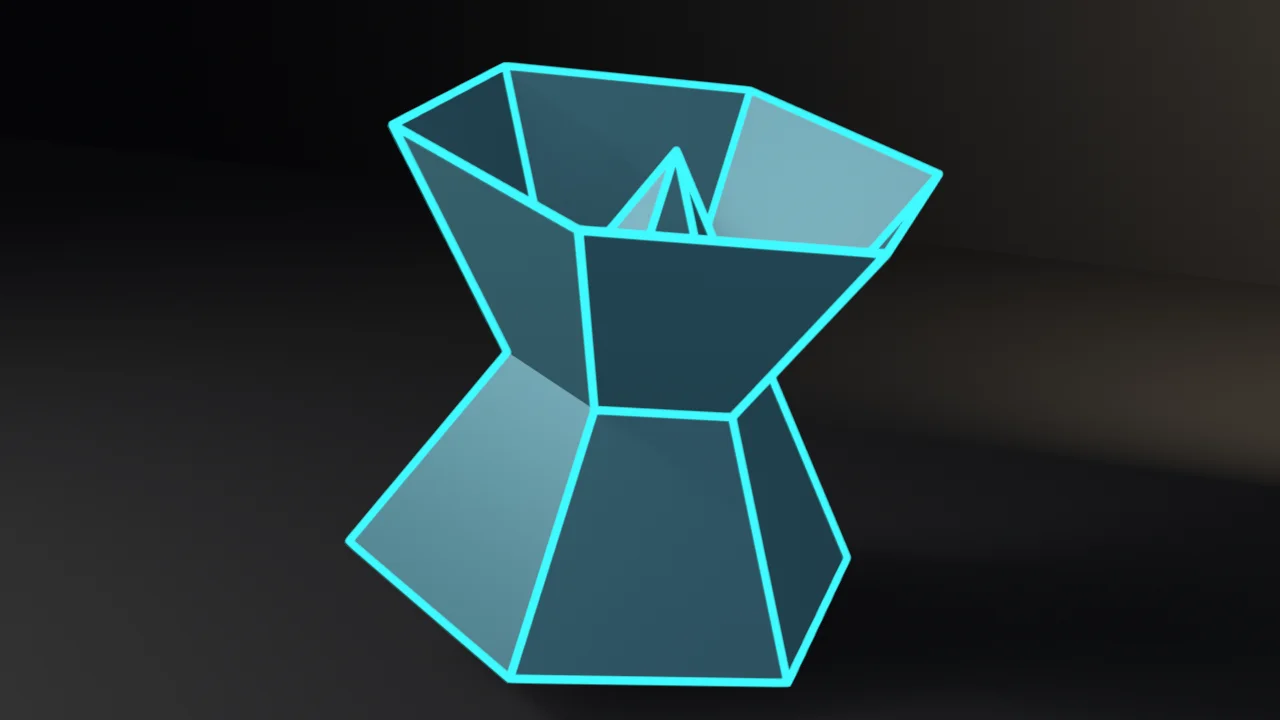
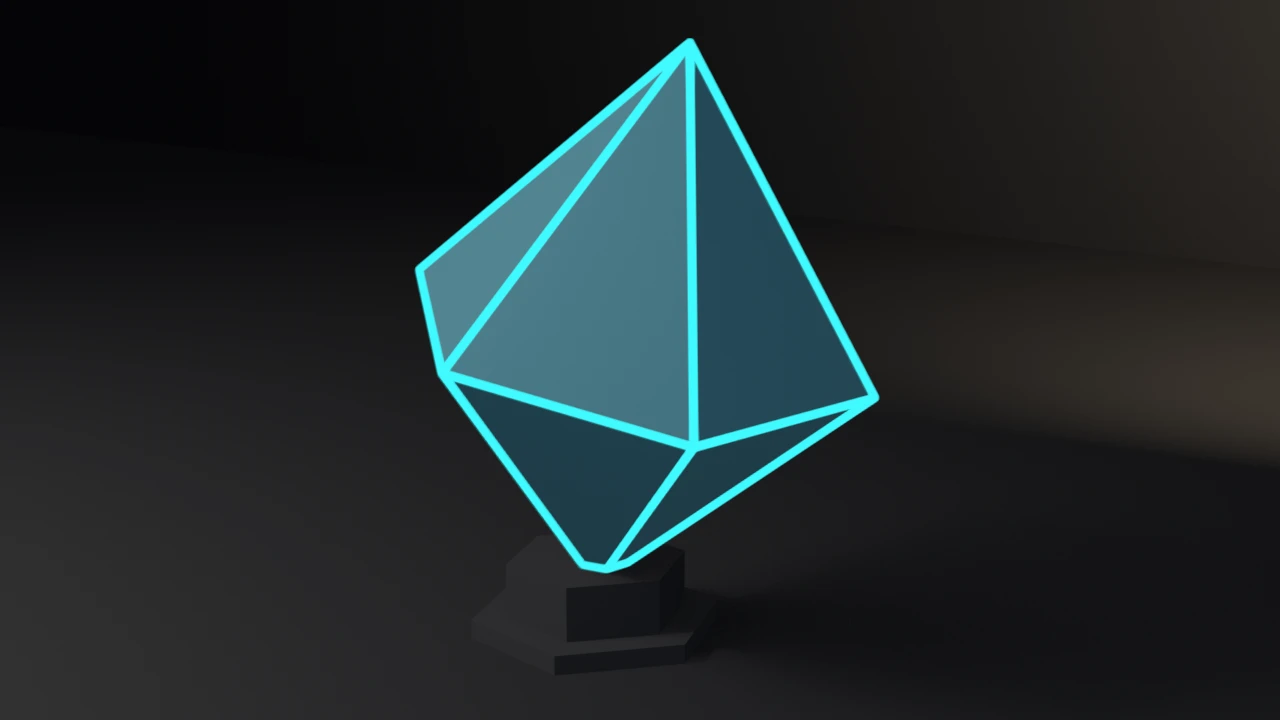
fix(examples): build gp-lineart-contour's crystal as a bipyramid, and mount it
build_crystal duplicated an open cone and flipped it over the original. The
two crossed into an hourglass with open hexagonal ends and an inner spike,
which the old gallery alt described as an hourglass-shaped solid. It is now
the hexagonal bipyramid the docstring intended. The crystal also hovered
0.13 m above the floor; a two-tier hex mount, built after the check from the
lowest evaluated vertex, now holds its lower tip. The still dollies along the
check camera's bearing so the mount stays in frame.

The corrected mesh changes the measured Line Art counts from 10 strokes /
34 points to 2 / 12, identical on 4.5.11, 5.1.2 and 5.2.1. The gates are
lower bounds (>=1, >=4) and are unchanged, as are every assertion and exit
code (default 0, --no-contour 4, --output 0).

Shared gallery.json and gallery index updates for all three examples ride here.

Changed region(s): [[0.25, 0.0611, 0.75, 0.9778]]

diff --git a/docs/gallery/gp-lineart-contour/index.html b/docs/gallery/gp-lineart-contour/index.html
@@ -4,25 +4,25 @@
   <meta charset="utf-8" />
   <meta name="viewport" content="width=device-width, initial-scale=1" />
   <title>gp-lineart-contour — Examples — Blender Developer Tools</title>
-  <meta name="description" content="Grease Pencil LINEART modifier contours via the depsgraph on a faceted crystal. source_object is load-bearing (clear yields 0 strokes); contour+crease off yields 0; restore recovers 10 strokes / 34 points on both 4.5.11 and 5.1.2. Stroke width: thickness exists on 4.5, AttributeError on 5.1 — portable path is radius." />
+  <meta name="description" content="Grease Pencil LINEART modifier contours via the depsgraph on a faceted crystal. source_object is load-bearing (clear yields 0 strokes); contour+crease off yields 0; restore recovers 2 strokes / 12 points on 4.5.11, 5.1.2 and 5.2.1. Stroke width: thickness exists on 4.5, AttributeError on 5.1 — portable path is radius." />
   <link rel="canonical" href="https://tmhsdigital.github.io/Blender-Developer-Tools/gallery/gp-lineart-contour/" />
   <link rel="icon" href="../../assets/favicon.svg" type="image/svg+xml" />
   <meta name="theme-color" content="#1a1b1e" />
   <meta name="color-scheme" content="dark" />
   <meta property="og:type" content="website" />
   <meta property="og:title" content="gp-lineart-contour — Examples — Blender Developer Tools" />
-  <meta property="og:description" content="Grease Pencil LINEART modifier contours via the depsgraph on a faceted crystal. source_object is load-bearing (clear yields 0 strokes); contour+crease off yields 0; restore recovers 10 strokes / 34 points on both 4.5.11 and 5.1.2. Stroke width: thickness exists on 4.5, AttributeError on 5.1 — portable path is radius." />
+  <meta property="og:description" content="Grease Pencil LINEART modifier contours via the depsgraph on a faceted crystal. source_object is load-bearing (clear yields 0 strokes); contour+crease off yields 0; restore recovers 2 strokes / 12 points on 4.5.11, 5.1.2 and 5.2.1. Stroke width: thickness exists on 4.5, AttributeError on 5.1 — portable path is radius." />
   <meta property="og:url" content="https://tmhsdigital.github.io/Blender-Developer-Tools/gallery/gp-lineart-contour/" />
   <meta property="og:image" content="https://tmhsdigital.github.io/Blender-Developer-Tools/gallery/assets/gp-lineart-contour-hero.webp" />
   <meta property="og:image:width" content="1280" />
   <meta property="og:image:height" content="720" />
-  <meta property="og:image:alt" content="A translucent hourglass-shaped solid outlined by cyan Line Art contour strokes." />
+  <meta property="og:image:alt" content="A translucent teal crystal, a six-sided double pyramid set tip-down in a dark hex mount, its edges traced by cyan Line Art contour strokes." />
   <meta property="og:site_name" content="Blender Developer Tools" />
   <meta name="twitter:card" content="summary_large_image" />
   <meta name="twitter:title" content="gp-lineart-contour — Examples — Blender Developer Tools" />
-  <meta name="twitter:description" content="Grease Pencil LINEART modifier contours via the depsgraph on a faceted crystal. source_object is load-bearing (clear yields 0 strokes); contour+crease off yields 0; restore recovers 10 strokes / 34 points on both 4.5.11 and 5.1.2. Stroke width: thickness exists on 4.5, AttributeError on 5.1 — portable path is radius." />
+  <meta name="twitter:description" content="Grease Pencil LINEART modifier contours via the depsgraph on a faceted crystal. source_object is load-bearing (clear yields 0 strokes); contour+crease off yields 0; restore recovers 2 strokes / 12 points on 4.5.11, 5.1.2 and 5.2.1. Stroke width: thickness exists on 4.5, AttributeError on 5.1 — portable path is radius." />
   <meta name="twitter:image" content="https://tmhsdigital.github.io/Blender-Developer-Tools/gallery/assets/gp-lineart-contour-hero.webp" />
-  <meta name="twitter:image:alt" content="A translucent hourglass-shaped solid outlined by cyan Line Art contour strokes." />
+  <meta name="twitter:image:alt" content="A translucent teal crystal, a six-sided double pyramid set tip-down in a dark hex mount, its edges traced by cyan Line Art contour strokes." />
   <style>
     /* fonts are deployed by the landing build (docs/fonts/) */
     @font-face { font-family: 'Barlow Condensed'; font-weight: 600; font-display: swap;
@@ -265,11 +265,11 @@
   </div>
   <header class="hero">
     <h1>gp-lineart-contour</h1>
-    <p>Grease Pencil LINEART modifier contours via the depsgraph on a faceted crystal. source_object is load-bearing (clear yields 0 strokes); contour+crease off yields 0; restore recovers 10 strokes / 34 points on both 4.5.11 and 5.1.2. Stroke width: thickness exists on 4.5, AttributeError on 5.1 — portable path is radius.</p>
+    <p>Grease Pencil LINEART modifier contours via the depsgraph on a faceted crystal. source_object is load-bearing (clear yields 0 strokes); contour+crease off yields 0; restore recovers 2 strokes / 12 points on 4.5.11, 5.1.2 and 5.2.1. Stroke width: thickness exists on 4.5, AttributeError on 5.1 — portable path is radius.</p>
   </header>
   <main id="main">
-    <button class="detail-hero" id="heroZoom" type="button" aria-label="View full size: A translucent hourglass-shaped solid outlined by cyan Line Art contour strokes.">
-      <img src="../assets/gp-lineart-contour-hero.webp" alt="A translucent hourglass-shaped solid outlined by cyan Line Art contour strokes." width="1280" height="720" />
+    <button class="detail-hero" id="heroZoom" type="button" aria-label="View full size: A translucent teal crystal, a six-sided double pyramid set tip-down in a dark hex mount, its edges traced by cyan Line Art contour strokes.">
+      <img src="../assets/gp-lineart-contour-hero.webp" alt="A translucent teal crystal, a six-sided double pyramid set tip-down in a dark hex mount, its edges traced by cyan Line Art contour strokes." width="1280" height="720" />
     </button>
     <p class="zoom-hint">Rendered headless by the example itself — click to zoom.</p>
     <div class="callout"><span class="tag">witnesses</span> AI code still sets LINEART.thickness on 5.1 (AttributeError) or hand-draws strokes / enables Freestyle instead of modifiers.new(..., &#x27;LINEART&#x27;). Clearing source_object or leaving contour+crease off silently yields an empty drawing — the check proves both failure modes and recovery.</div>
@@ -280,9 +280,10 @@
     <section class="detail-section md">
 <p>A runnable example that builds a faceted crystal, attaches a Grease Pencil <code>LINEART</code> modifier with <code>source_type=&#x27;OBJECT&#x27;</code>, and proves the contour contract through the depsgraph — including the 4.5 → 5.1 stroke-width trap.</p>
 <p><strong>What it witnesses:</strong> the Line Art modifier contract AI-generated NPR code most often gets wrong.</p>
-<ul><li><strong>Contours are a modifier, not Freestyle and not hand-authored strokes.</strong> <code>modifiers.new(..., &#x27;LINEART&#x27;)</code> on a GPv3 object, with <code>target_layer</code> / <code>target_material</code> set, evaluates silhouette edges into drawing strokes.</li><li><strong><code>source_object</code> is load-bearing.</strong> Clearing it yields <strong>0</strong> evaluated strokes (proven in the same check pass). Restoring it recovers the contour.</li><li><strong>Edge-type flags matter.</strong> A freshly added LINEART with <code>use_contour</code> and <code>use_crease</code> both off emits <strong>0</strong> strokes; turning contour (+ crease) back on recovers the silhouette (<strong>10</strong> strokes / <strong>34</strong> points on both binaries for this crystal + camera).</li><li><strong>Stroke width renamed.</strong> 4.5 exposes both <code>thickness</code> (legacy px, set to 45 here) and <code>radius</code>; 5.1 removes <code>thickness</code> (<code>AttributeError</code>) and keeps <code>radius</code> only (portable path: <code>mod.radius = 0.028</code>).</li><li><strong>GPv3 address</strong> matches <code>grease-pencil-rosette</code>: <code>grease_pencils_v3</code> on 4.5, <code>grease_pencils</code> on 5.x.</li></ul>
+<ul><li><strong>Contours are a modifier, not Freestyle and not hand-authored strokes.</strong> <code>modifiers.new(..., &#x27;LINEART&#x27;)</code> on a GPv3 object, with <code>target_layer</code> / <code>target_material</code> set, evaluates silhouette edges into drawing strokes.</li><li><strong><code>source_object</code> is load-bearing.</strong> Clearing it yields <strong>0</strong> evaluated strokes (proven in the same check pass). Restoring it recovers the contour.</li><li><strong>Edge-type flags matter.</strong> A freshly added LINEART with <code>use_contour</code> and <code>use_crease</code> both off emits <strong>0</strong> strokes; turning contour (+ crease) back on recovers the silhouette (<strong>2</strong> strokes / <strong>12</strong> points on every binary for this crystal + camera; Line Art chains the bipyramid&#x27;s edges into long strokes, so the count is low and the gates are lower bounds).</li><li><strong>Stroke width renamed.</strong> 4.5 exposes both <code>thickness</code> (legacy px, set to 45 here) and <code>radius</code>; 5.1 removes <code>thickness</code> (<code>AttributeError</code>) and keeps <code>radius</code> only (portable path: <code>mod.radius = 0.028</code>).</li><li><strong>GPv3 address</strong> matches <code>grease-pencil-rosette</code>: <code>grease_pencils_v3</code> on 4.5, <code>grease_pencils</code> on 5.x.</li></ul>
 <p><strong>What each check catches on failure:</strong> wrong GPv3 collection (exit 2), <code>thickness</code> present/absent on the wrong side of 5.0 (exit 3), lost <code>source_object</code> assignment (exit 4), contour too thin (exit 5), source clear not zeroing strokes (exit 6), flags-off or restore failure (exit 7).</p>
-<p><strong>Version witness:</strong> stroke counts match on 4.5.11 LTS and 5.1.2 (10 strokes / 34 points). The divergence is <code>thickness</code> vs <code>radius</code>.</p>
+<p><strong>Version witness:</strong> stroke counts match on 4.5.11 LTS, 5.1.2 and 5.2.1 LTS (2 strokes / 12 points). The divergence is <code>thickness</code> vs <code>radius</code>.</p>
+<p><strong>The still:</strong> the crystal is a hexagonal bipyramid (an equator ring and two apexes), set tip-down in a two-tier hex mount on the floor. The mount is render staging, derived from the crystal&#x27;s lowest evaluated vertex; it is built after the check, so it never enters the Line Art counts. The still&#x27;s camera drops its aim and dollies in along the check camera&#x27;s bearing, so the crystal fills the frame with the mount&#x27;s foot inside it.</p>
 <h2>Run</h2>
 <pre><code># Depsgraph contour check — the CI check:
 blender --background --python gp_lineart_contour.py --
@@ -343,9 +344,18 @@ sys.dont_write_bytecode = <span class="k">True</span>  <span class="c"># keep ex
 
 <span class="c"># Faceted crystal (octahedron-ish) — enough silhouette edges to read at thumbnail</span>
 CRYSTAL_SCALE = <span class="n">1.15</span>
+CRYSTAL_R = <span class="n">0.72</span>        <span class="c"># bipyramid equator radius (before CRYSTAL_SCALE)</span>
+CRYSTAL_APEX = <span class="n">0.88</span>     <span class="c"># apex height above/below the equator</span>
 STROKE_MIN = <span class="n">1</span>
 POINT_MIN = <span class="n">4</span>
 RADIUS = <span class="n">0.028</span>
+
+<span class="c"># render staging only (not part of the check)</span>
+MOUNT_R = <span class="n">0.46</span>          <span class="c"># hex plinth base radius</span>
+MOUNT_BASE_H = <span class="n">0.07</span>     <span class="c"># base tier height, standing on the floor</span>
+MOUNT_SOCKET = <span class="n">0.10</span>     <span class="c"># depth the crystal&#x27;s lower tip sinks into the mount</span>
+STILL_AIM_Z = <span class="n">1.05</span>      <span class="c"># still camera aim height (the check&#x27;s is 1.15)</span>
+STILL_DOLLY = <span class="n">0.94</span>     <span class="c"># still camera distance, relative to the check&#x27;s</span>
 
 
 <span class="k">def</span> eevee_engine_id():
@@ -387,19 +397,16 @@ RADIUS = <span class="n">0.028</span>
     me = bpy.data.meshes.new(<span class="s">&quot;Crystal&quot;</span>)
     bm = bmesh.new()
     <span class="k">try</span>:
-        <span class="c"># Dual cone = octahedron-like crystal</span>
-        bmesh.ops.create_cone(
-            bm, cap_ends=<span class="k">False</span>, cap_tris=<span class="k">True</span>,
-            segments=<span class="n">6</span>, radius1=<span class="n">0.85</span>, radius2=<span class="n">0.0</span>, depth=<span class="n">1.4</span>,
-        )
-        <span class="c"># second tip downward</span>
-        geom = bmesh.ops.duplicate(bm, geom=list(bm.verts) + list(bm.edges) + list(bm.faces))
-        verts = [e <span class="k">for</span> e <span class="k">in</span> geom[<span class="s">&quot;geom&quot;</span>] <span class="k">if</span> isinstance(e, bmesh.types.BMVert)]
-        bmesh.ops.rotate(
-            bm, verts=verts, cent=(<span class="n">0</span>, <span class="n">0</span>, <span class="n">0</span>),
-            matrix=Matrix.Rotation(math.pi, <span class="n">3</span>, <span class="s">&quot;X&quot;</span>),
-        )
-        bmesh.ops.remove_doubles(bm, verts=bm.verts, dist=<span class="n">1e-4</span>)
+        <span class="c"># Hexagonal bipyramid: one equator ring, an apex above and below.</span>
+        <span class="c"># (Two overlapped open cones, the earlier build, crossed into an</span>
+        <span class="c"># hourglass with open ends and an inner spike.)</span>
+        ring = [bm.verts.new((CRYSTAL_R * math.cos(math.pi * k / <span class="n">3</span>),
+                              CRYSTAL_R * math.sin(math.pi * k / <span class="n">3</span>), <span class="n">0.0</span>))
+                <span class="k">for</span> k <span class="k">in</span> range(<span class="n">6</span>)]
+        <span class="k">for</span> apex_z <span class="k">in</span> (CRYSTAL_APEX, -CRYSTAL_APEX):
+            apex = bm.verts.new((<span class="n">0.0</span>, <span class="n">0.0</span>, apex_z))
+            <span class="k">for</span> k <span class="k">in</span> range(<span class="n">6</span>):
+                bm.faces.new((ring[k], ring[(k + <span class="n">1</span>) % <span class="n">6</span>], apex))
         bmesh.ops.recalc_face_normals(bm, faces=bm.faces)
         bmesh.ops.scale(bm, vec=(CRYSTAL_SCALE,) * <span class="n">3</span>, verts=bm.verts)
         bm.to_mesh(me)
@@ -667,7 +674,54 @@ RADIUS = <span class="n">0.028</span>
     light(<span class="s">&quot;Wedge&quot;</span>, (<span class="n">2.5</span>, <span class="n">5.5</span>, <span class="n">4.0</span>), <span class="n">280.0</span>, <span class="n">6.0</span>, (<span class="n">1.0</span>, <span class="n">0.76</span>, <span class="n">0.5</span>), (-<span class="n">68</span>, <span class="n">0</span>, <span class="n">190</span>))
 
 
+<span class="k">def</span> build_mount(sc, crystal):
+    <span class="s">&quot;&quot;&quot;Render staging only: a two-tier hex plinth seated on the floor whose
+    top swallows the crystal&#x27;s lower tip, so the crystal is set in a mount
+    instead of hovering. Derived from the evaluated crystal; the crystal
+    itself (and so every Line Art count above) is untouched.&quot;&quot;&quot;</span>
+    bpy.context.view_layer.update()
+    mw = crystal.matrix_world
+    tip = min((mw @ v.co <span class="k">for</span> v <span class="k">in</span> crystal.data.vertices), key=<span class="k">lambda</span> p: p.z)
+    top = tip.z + MOUNT_SOCKET
+    me = bpy.data.meshes.new(<span class="s">&quot;Mount&quot;</span>)
+    bm = bmesh.new()
+    <span class="k">try</span>:
+        <span class="k">for</span> r, z0, z1 <span class="k">in</span> ((MOUNT_R, -<span class="n">0.003</span>, MOUNT_BASE_H),
+                          (MOUNT_R * <span class="n">0.72</span>, MOUNT_BASE_H - <span class="n">0.003</span>, top)):
+            bmesh.ops.create_cone(
+                bm, cap_ends=<span class="k">True</span>, segments=<span class="n">6</span>, radius1=r, radius2=r,
+                depth=z1 - z0,
+                matrix=Matrix.Translation((tip.x, tip.y, (z0 + z1) / <span class="n">2</span>))
+                @ Matrix.Rotation(crystal.rotation_euler.z, <span class="n">4</span>, <span class="s">&quot;Z&quot;</span>),
+            )
+        bm.to_mesh(me)
+    <span class="k">finally</span>:
+        bm.free()
+    <span class="k">for</span> p <span class="k">in</span> me.polygons:
+        p.use_smooth = <span class="k">False</span>
+    mat = bpy.data.materials.new(<span class="s">&quot;MountStone&quot;</span>)
+    mat.use_nodes = <span class="k">True</span>
+    b = mat.node_tree.nodes[<span class="s">&quot;Principled BSDF&quot;</span>]
+    b.inputs[<span class="s">&quot;Base Color&quot;</span>].default_value = (<span class="n">0.06</span>, <span class="n">0.062</span>, <span class="n">0.07</span>, <span class="n">1.0</span>)
+    b.inputs[<span class="s">&quot;Roughness&quot;</span>].default_value = <span class="n">0.55</span>
+    me.materials.append(mat)
+    ob = bpy.data.objects.new(<span class="s">&quot;Mount&quot;</span>, me)
+    sc.collection.objects.link(ob)
+    <span class="k">return</span> ob
+
+
 <span class="k">def</span> render_still(sc, path, engine):
+    source = sc.objects[<span class="s">&quot;Crystal&quot;</span>]
+    mount = build_mount(sc, source)
+    <span class="c"># reframe for the still only (the check ran from the setup_camera view):</span>
+    <span class="c"># lower the aim so the mount&#x27;s foot clears the bottom edge, and dolly in</span>
+    <span class="c"># along the same bearing so the crystal still fills the frame</span>
+    aim = sc.objects[<span class="s">&quot;Aim&quot;</span>]
+    cam = sc.camera
+    bearing = cam.location - aim.location
+    aim.location.z = STILL_AIM_Z
+    cam.location = aim.location + bearing * STILL_DOLLY
+    bpy.context.view_layer.update()
     sc.render.engine = <span class="s">&quot;CYCLES&quot;</span> <span class="k">if</span> engine == <span class="s">&quot;cycles&quot;</span> <span class="k">else</span> eevee_engine_id()
     <span class="k">if</span> engine == <span class="s">&quot;cycles&quot;</span>:
         sc.cycles.device = <span class="s">&quot;CPU&quot;</span>
@@ -685,16 +739,17 @@ RADIUS = <span class="n">0.028</span>
     sc.view_settings.view_transform = <span class="s">&quot;Standard&quot;</span>
     <span class="c"># Layer 1 framing gate (silhouette matte) — exit 10 on violation, before</span>
     <span class="c"># the beauty render so a defective composition ships no artifact. The two</span>
-    <span class="c"># renderable subjects are the crystal source mesh and the GP stroke object.</span>
+    <span class="c"># hero subjects are the crystal source mesh and the GP stroke object; the</span>
+    <span class="c"># mount is staging, so it must clear the edges but does not count as fill.</span>
     stage = [o <span class="k">for</span> o <span class="k">in</span> sc.objects <span class="k">if</span> o.name <span class="k">in</span> {<span class="s">&quot;Floor&quot;</span>, <span class="s">&quot;Wall&quot;</span>}]
     hero = [
         o <span class="k">for</span> o <span class="k">in</span> sc.objects
-        <span class="k">if</span> o.type <span class="k">in</span> {<span class="s">&quot;MESH&quot;</span>, <span class="s">&quot;GREASEPENCIL&quot;</span>} <span class="k">and</span> o <span class="k">not</span> <span class="k">in</span> stage
+        <span class="k">if</span> o.type <span class="k">in</span> {<span class="s">&quot;MESH&quot;</span>, <span class="s">&quot;GREASEPENCIL&quot;</span>} <span class="k">and</span> o <span class="k">not</span> <span class="k">in</span> stage <span class="k">and</span> o != mount
     ]
     fcode = gallery_framing.check_framing(
         sc, sc.camera,
         hero=hero,
-        elements=hero,
+        elements=hero + [mount],
         stage=stage,
     )
     <span class="k">if</span> fcode:
@@ -766,7 +821,7 @@ RADIUS = <span class="n">0.028</span>
   </main>
   <dialog class="lightbox" id="lightbox" aria-label="Full-size render">
     <button class="lightbox-close" type="button" autofocus>Close</button>
-    <img src="../assets/gp-lineart-contour-hero.webp" alt="A translucent hourglass-shaped solid outlined by cyan Line Art contour strokes." />
+    <img src="../assets/gp-lineart-contour-hero.webp" alt="A translucent teal crystal, a six-sided double pyramid set tip-down in a dark hex mount, its edges traced by cyan Line Art contour strokes." />
   </dialog>
   <footer>
     <div class="statusbar">

diff --git a/docs/gallery/index.html b/docs/gallery/index.html
@@ -409,7 +409,7 @@
       </article>
       <article class="card" data-tags="mesh bmesh">
         <a class="card-media" href="bmesh-gear/" tabindex="-1" aria-hidden="true">
-          <img src="assets/bmesh-gear-hero.webp" alt="A gold fourteen-tooth gear lying at an angle, its face covered in concentric grooves." loading="lazy" decoding="async" />
+          <img src="assets/bmesh-gear-hero.webp" alt="A gold fourteen-tooth gear leaning back on a dark display wedge, its face covered in concentric grooves." loading="lazy" decoding="async" />
         </a>
         <div class="card-body">
           <h2><a href="bmesh-gear/">bmesh-gear</a></h2>
@@ -651,7 +651,7 @@
       </article>
       <article class="card" data-tags="mesh uv">
         <a class="card-media" href="triangulate-tangents/" tabindex="-1" aria-hidden="true">
-          <img src="assets/triangulate-tangents-hero.webp" alt="A round silver buckler on a stand, its face brushed in circular grooves with an anisotropic highlight." loading="lazy" decoding="async" />
+          <img src="assets/triangulate-tangents-hero.webp" alt="A round silver buckler leaning back on a low stand, its face brushed in circular grooves with an anisotropic highlight." loading="lazy" decoding="async" />
         </a>
         <div class="card-body">
           <h2><a href="triangulate-tangents/">triangulate-tangents</a></h2>
@@ -728,11 +728,11 @@
       </article>
       <article class="card" data-tags="grease-pencil line-art modifiers">
         <a class="card-media" href="gp-lineart-contour/" tabindex="-1" aria-hidden="true">
-          <img src="assets/gp-lineart-contour-hero.webp" alt="A translucent hourglass-shaped solid outlined by cyan Line Art contour strokes." loading="lazy" decoding="async" />
+          <img src="assets/gp-lineart-contour-hero.webp" alt="A translucent teal crystal, a six-sided double pyramid set tip-down in a dark hex mount, its edges traced by cyan Line Art contour strokes." loading="lazy" decoding="async" />
         </a>
         <div class="card-body">
           <h2><a href="gp-lineart-contour/">gp-lineart-contour</a></h2>
-          <p class="teaches">Grease Pencil LINEART modifier contours via the depsgraph on a faceted crystal. source_object is load-bearing (clear yields 0 strokes); contour+crease off yields 0; restore recovers 10 strokes / 34 points on both 4.5.11 and 5.1.2. Stroke width: thickness exists on 4.5, AttributeError on 5.1 — portable path is radius.</p>
+          <p class="teaches">Grease Pencil LINEART modifier contours via the depsgraph on a faceted crystal. source_object is load-bearing (clear yields 0 strokes); contour+crease off yields 0; restore recovers 2 strokes / 12 points on 4.5.11, 5.1.2 and 5.2.1. Stroke width: thickness exists on 4.5, AttributeError on 5.1 — portable path is radius.</p>
           <p class="witnesses"><span class="tag">witnesses</span> AI code still sets LINEART.thickness on 5.1 (AttributeError) or hand-draws strokes / enables Freestyle instead of modifiers.new(..., &#x27;LINEART&#x27;). Clearing source_object or leaving contour+crease off silently yields an empty drawing — the check proves both failure modes and recovery.</p>
           <a class="card-link" href="gp-lineart-contour/">View example<span class="sr-only"> gp-lineart-contour</span> <span aria-hidden="true">&rarr;</span></a>
         </div>

diff --git a/examples/gp-lineart-contour/gp_lineart_contour.py b/examples/gp-lineart-contour/gp_lineart_contour.py
@@ -38,9 +38,18 @@ from mathutils import Matrix
 
 # Faceted crystal (octahedron-ish) — enough silhouette edges to read at thumbnail
 CRYSTAL_SCALE = 1.15
+CRYSTAL_R = 0.72        # bipyramid equator radius (before CRYSTAL_SCALE)
+CRYSTAL_APEX = 0.88     # apex height above/below the equator
 STROKE_MIN = 1
 POINT_MIN = 4
 RADIUS = 0.028
+
+# render staging only (not part of the check)
+MOUNT_R = 0.46          # hex plinth base radius
+MOUNT_BASE_H = 0.07     # base tier height, standing on the floor
+MOUNT_SOCKET = 0.10     # depth the crystal's lower tip sinks into the mount
+STILL_AIM_Z = 1.05      # still camera aim height (the check's is 1.15)
+STILL_DOLLY = 0.94     # still camera distance, relative to the check's
 
 
 def eevee_engine_id():
@@ -82,19 +91,16 @@ def build_crystal(sc):
     me = bpy.data.meshes.new("Crystal")
     bm = bmesh.new()
     try:
-        # Dual cone = octahedron-like crystal
-        bmesh.ops.create_cone(
-            bm, cap_ends=False, cap_tris=True,
-            segments=6, radius1=0.85, radius2=0.0, depth=1.4,
-        )
-        # second tip downward
-        geom = bmesh.ops.duplicate(bm, geom=list(bm.verts) + list(bm.edges) + list(bm.faces))
-        verts = [e for e in geom["geom"] if isinstance(e, bmesh.types.BMVert)]
-        bmesh.ops.rotate(
-            bm, verts=verts, cent=(0, 0, 0),
-            matrix=Matrix.Rotation(math.pi, 3, "X"),
-        )
-        bmesh.ops.remove_doubles(bm, verts=bm.verts, dist=1e-4)
+        # Hexagonal bipyramid: one equator ring, an apex above and below.
+        # (Two overlapped open cones, the earlier build, crossed into an
+        # hourglass with open ends and an inner spike.)
+        ring = [bm.verts.new((CRYSTAL_R * math.cos(math.pi * k / 3),
+                              CRYSTAL_R * math.sin(math.pi * k / 3), 0.0))
+                for k in range(6)]
+        for apex_z in (CRYSTAL_APEX, -CRYSTAL_APEX):
+            apex = bm.verts.new((0.0, 0.0, apex_z))
+            for k in range(6):
+                bm.faces.new((ring[k], ring[(k + 1) % 6], apex))
         bmesh.ops.recalc_face_normals(bm, faces=bm.faces)
         bmesh.ops.scale(bm, vec=(CRYSTAL_SCALE,) * 3, verts=bm.verts)
         bm.to_mesh(me)
@@ -362,7 +368,54 @@ def build_studio(sc):
     light("Wedge", (2.5, 5.5, 4.0), 280.0, 6.0, (1.0, 0.76, 0.5), (-68, 0, 190))
 
 
+def build_mount(sc, crystal):
+    """Render staging only: a two-tier hex plinth seated on the floor whose
+    top swallows the crystal's lower tip, so the crystal is set in a mount
+    instead of hovering. Derived from the evaluated crystal; the crystal
+    itself (and so every Line Art count above) is untouched."""
+    bpy.context.view_layer.update()
+    mw = crystal.matrix_world
+    tip = min((mw @ v.co for v in crystal.data.vertices), key=lambda p: p.z)
+    top = tip.z + MOUNT_SOCKET
+    me = bpy.data.meshes.new("Mount")
+    bm = bmesh.new()
+    try:
+        for r, z0, z1 in ((MOUNT_R, -0.003, MOUNT_BASE_H),
+                          (MOUNT_R * 0.72, MOUNT_BASE_H - 0.003, top)):
+            bmesh.ops.create_cone(
+                bm, cap_ends=True, segments=6, radius1=r, radius2=r,
+                depth=z1 - z0,
+                matrix=Matrix.Translation((tip.x, tip.y, (z0 + z1) / 2))
+                @ Matrix.Rotation(crystal.rotation_euler.z, 4, "Z"),
+            )
+        bm.to_mesh(me)
+    finally:
+        bm.free()
+    for p in me.polygons:
+        p.use_smooth = False
+    mat = bpy.data.materials.new("MountStone")
+    mat.use_nodes = True
+    b = mat.node_tree.nodes["Principled BSDF"]
+    b.inputs["Base Color"].default_value = (0.06, 0.062, 0.07, 1.0)
+    b.inputs["Roughness"].default_value = 0.55
+    me.materials.append(mat)
+    ob = bpy.data.objects.new("Mount", me)
+    sc.collection.objects.link(ob)
+    return ob
+
+
 def render_still(sc, path, engine):
+    source = sc.objects["Crystal"]
+    mount = build_mount(sc, source)
+    # reframe for the still only (the check ran from the setup_camera view):
+    # lower the aim so the mount's foot clears the bottom edge, and dolly in
+    # along the same bearing so the crystal still fills the frame
+    aim = sc.objects["Aim"]
+    cam = sc.camera
+    bearing = cam.location - aim.location
+    aim.location.z = STILL_AIM_Z
+    cam.location = aim.location + bearing * STILL_DOLLY
+    bpy.context.view_layer.update()
     sc.render.engine = "CYCLES" if engine == "cycles" else eevee_engine_id()
     if engine == "cycles":
         sc.cycles.device = "CPU"
@@ -380,16 +433,17 @@ def render_still(sc, path, engine):
     sc.view_settings.view_transform = "Standard"
     # Layer 1 framing gate (silhouette matte) — exit 10 on violation, before
     # the beauty render so a defective composition ships no artifact. The two
-    # renderable subjects are the crystal source mesh and the GP stroke object.
+    # hero subjects are the crystal source mesh and the GP stroke object; the
+    # mount is staging, so it must clear the edges but does not count as fill.
     stage = [o for o in sc.objects if o.name in {"Floor", "Wall"}]
     hero = [
         o for o in sc.objects
-        if o.type in {"MESH", "GREASEPENCIL"} and o not in stage
+        if o.type in {"MESH", "GREASEPENCIL"} and o not in stage and o != mount
     ]
     fcode = gallery_framing.check_framing(
         sc, sc.camera,
         hero=hero,
-        elements=hero,
+        elements=hero + [mount],
         stage=stage,
     )
     if fcode:

diff --git a/examples/gp-lineart-contour/README.md b/examples/gp-lineart-contour/README.md
@@ -14,8 +14,9 @@ often gets wrong.
   strokes (proven in the same check pass). Restoring it recovers the contour.
 - **Edge-type flags matter.** A freshly added LINEART with `use_contour` and
   `use_crease` both off emits **0** strokes; turning contour (+ crease) back on
-  recovers the silhouette (**10** strokes / **34** points on both binaries for
-  this crystal + camera).
+  recovers the silhouette (**2** strokes / **12** points on every binary for
+  this crystal + camera; Line Art chains the bipyramid's edges into long
+  strokes, so the count is low and the gates are lower bounds).
 - **Stroke width renamed.** 4.5 exposes both `thickness` (legacy px, set to 45
   here) and `radius`; 5.1 removes `thickness` (`AttributeError`) and keeps
   `radius` only (portable path: `mod.radius = 0.028`).
@@ -27,8 +28,15 @@ often gets wrong.
 `source_object` assignment (exit 4), contour too thin (exit 5), source clear
 not zeroing strokes (exit 6), flags-off or restore failure (exit 7).
 
-**Version witness:** stroke counts match on 4.5.11 LTS and 5.1.2
-(10 strokes / 34 points). The divergence is `thickness` vs `radius`.
+**Version witness:** stroke counts match on 4.5.11 LTS, 5.1.2 and 5.2.1 LTS
+(2 strokes / 12 points). The divergence is `thickness` vs `radius`.
+
+**The still:** the crystal is a hexagonal bipyramid (an equator ring and two
+apexes), set tip-down in a two-tier hex mount on the floor. The mount is
+render staging, derived from the crystal's lowest evaluated vertex; it is built
+after the check, so it never enters the Line Art counts. The still's camera
+drops its aim and dollies in along the check camera's bearing, so the crystal
+fills the frame with the mount's foot inside it.
 
 ## Run
 
